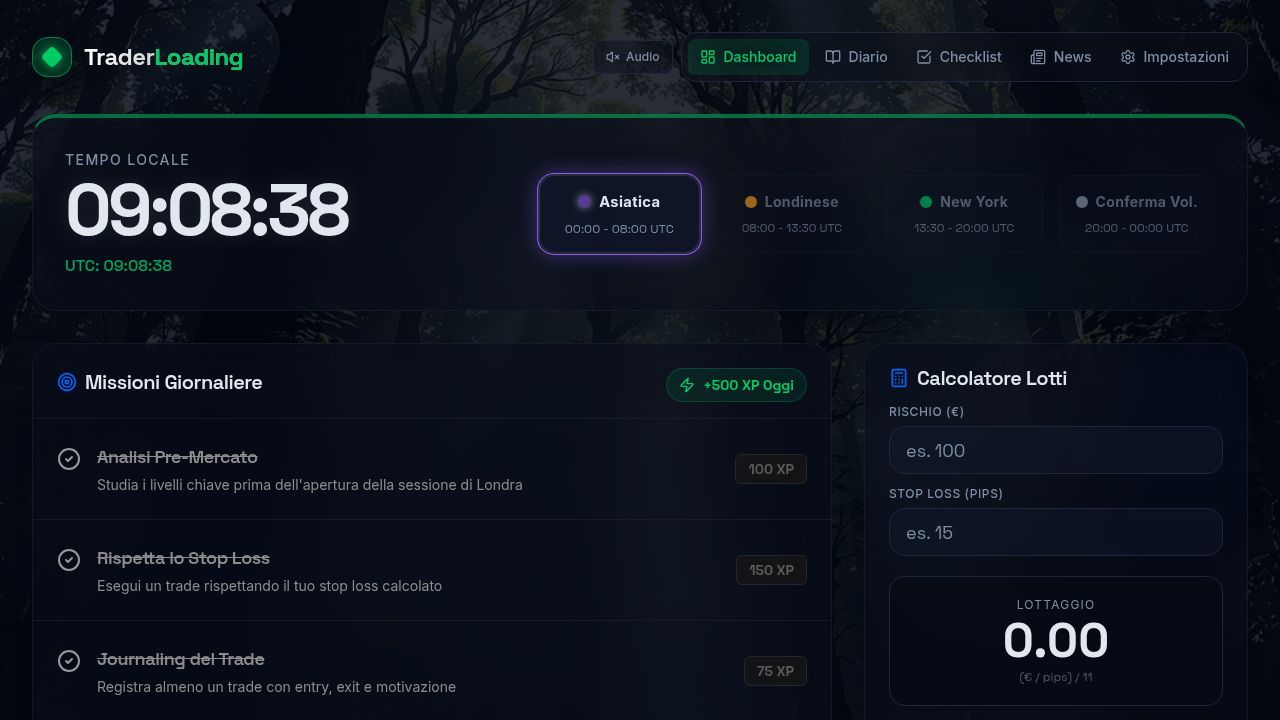
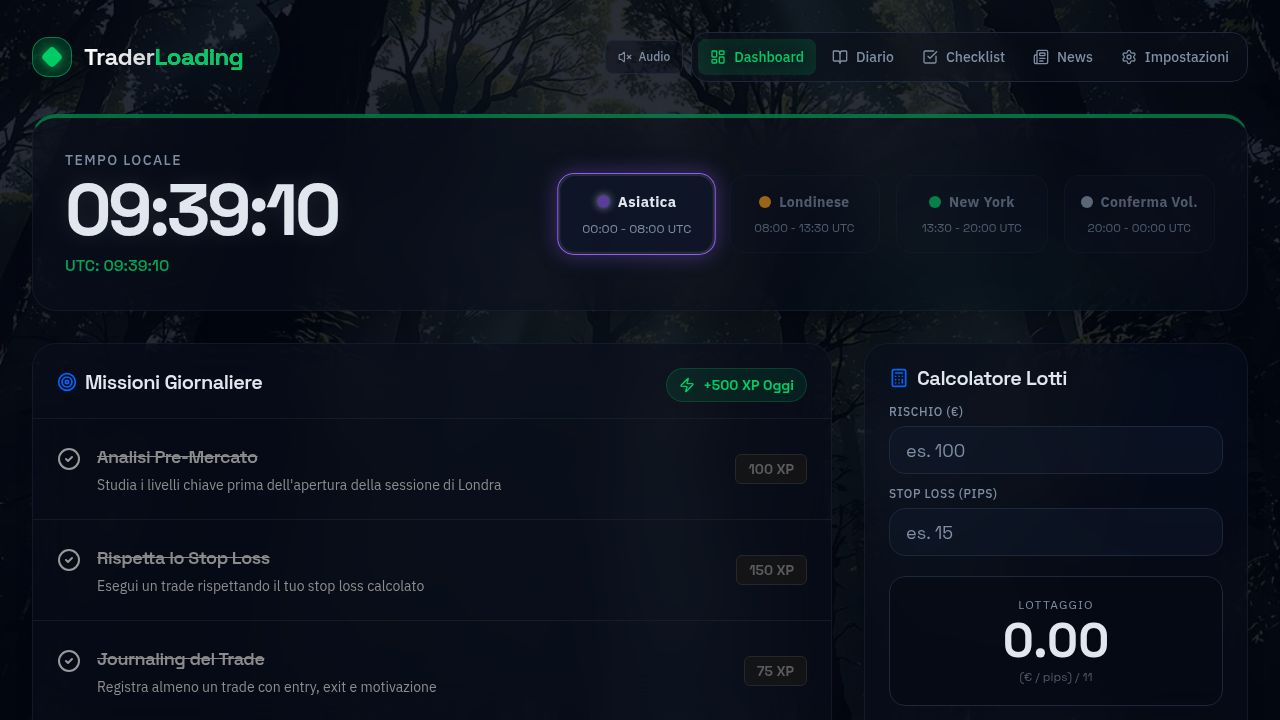
Task #6: Fix audio auto-start with capture-phase listeners + early AudioContext unlock
Root cause: The document-level event listeners used default bubble-phase
registration. In React 18, events are delegated to the root element (#root),
meaning the click event passes through React's synthetic event system before
bubbling up to document. By that point, some browsers may consider the
synchronous user-gesture frame "stale" for autoplay policy checks, causing
AudioContext.resume() to be silently rejected.

Fix 1 - Capture-phase listeners:
- Changed all addEventListener/removeEventListener calls to use `true`
  (shorthand for { capture: true })
- Capture-phase fires BEFORE any React handlers or child element handlers
- This is the earliest possible point in the event lifecycle to intercept
  a user gesture, ensuring maximum compatibility with browser autoplay policies
- removeEventListener also passes `true` — required to correctly remove
  a capture-phase listener (without it, the browser looks for a bubble-phase
  listener which doesn't exist)

Fix 2 - Direct AudioContext unlock in tryAutoStart:
- Before calling setModeRef.current("alpha") (which goes through React's
  useCallback chain), tryAutoStart now directly creates the AudioContext
  and calls resume() inline
- This ensures the AudioContext is unlocked at the very start of the
  capture-phase handler, before any React state updates or callback chains
- startFrequencies (called via setMode) will then find the context already
  created and resumed, and simply create/start oscillators
[…]

diff --git a/artifacts/trader-dashboard/src/contexts/AudioContext.tsx b/artifacts/trader-dashboard/src/contexts/AudioContext.tsx
@@ -110,20 +110,29 @@ export function AudioProvider({ children }: { children: ReactNode }) {
     const tryAutoStart = () => {
       if (hasAutoStarted.current) return;
       hasAutoStarted.current = true;
+
+      try {
+        if (!audioCtxRef.current) {
+          audioCtxRef.current = new (window.AudioContext || (window as unknown as { webkitAudioContext: typeof AudioContext }).webkitAudioContext)();
+        }
+        audioCtxRef.current.resume();
+      } catch {}
+
       setModeRef.current("alpha");
-      document.removeEventListener("click", tryAutoStart);
-      document.removeEventListener("keydown", tryAutoStart);
-      document.removeEventListener("touchstart", tryAutoStart);
+
+      document.removeEventListener("click", tryAutoStart, true);
+      document.removeEventListener("keydown", tryAutoStart, true);
+      document.removeEventListener("touchstart", tryAutoStart, true);
     };
 
-    document.addEventListener("click", tryAutoStart);
-    document.addEventListener("keydown", tryAutoStart);
-    document.addEventListener("touchstart", tryAutoStart);
+    document.addEventListener("click", tryAutoStart, true);
+    document.addEventListener("keydown", tryAutoStart, true);
+    document.addEventListener("touchstart", tryAutoStart, true);
 
     return () => {
-      document.removeEventListener("click", tryAutoStart);
-      document.removeEventListener("keydown", tryAutoStart);
-      document.removeEventListener("touchstart", tryAutoStart);
+      document.removeEventListener("click", tryAutoStart, true);
+      document.removeEventListener("keydown", tryAutoStart, true);
+      document.removeEventListener("touchstart", tryAutoStart, true);
     };
   }, []);
 